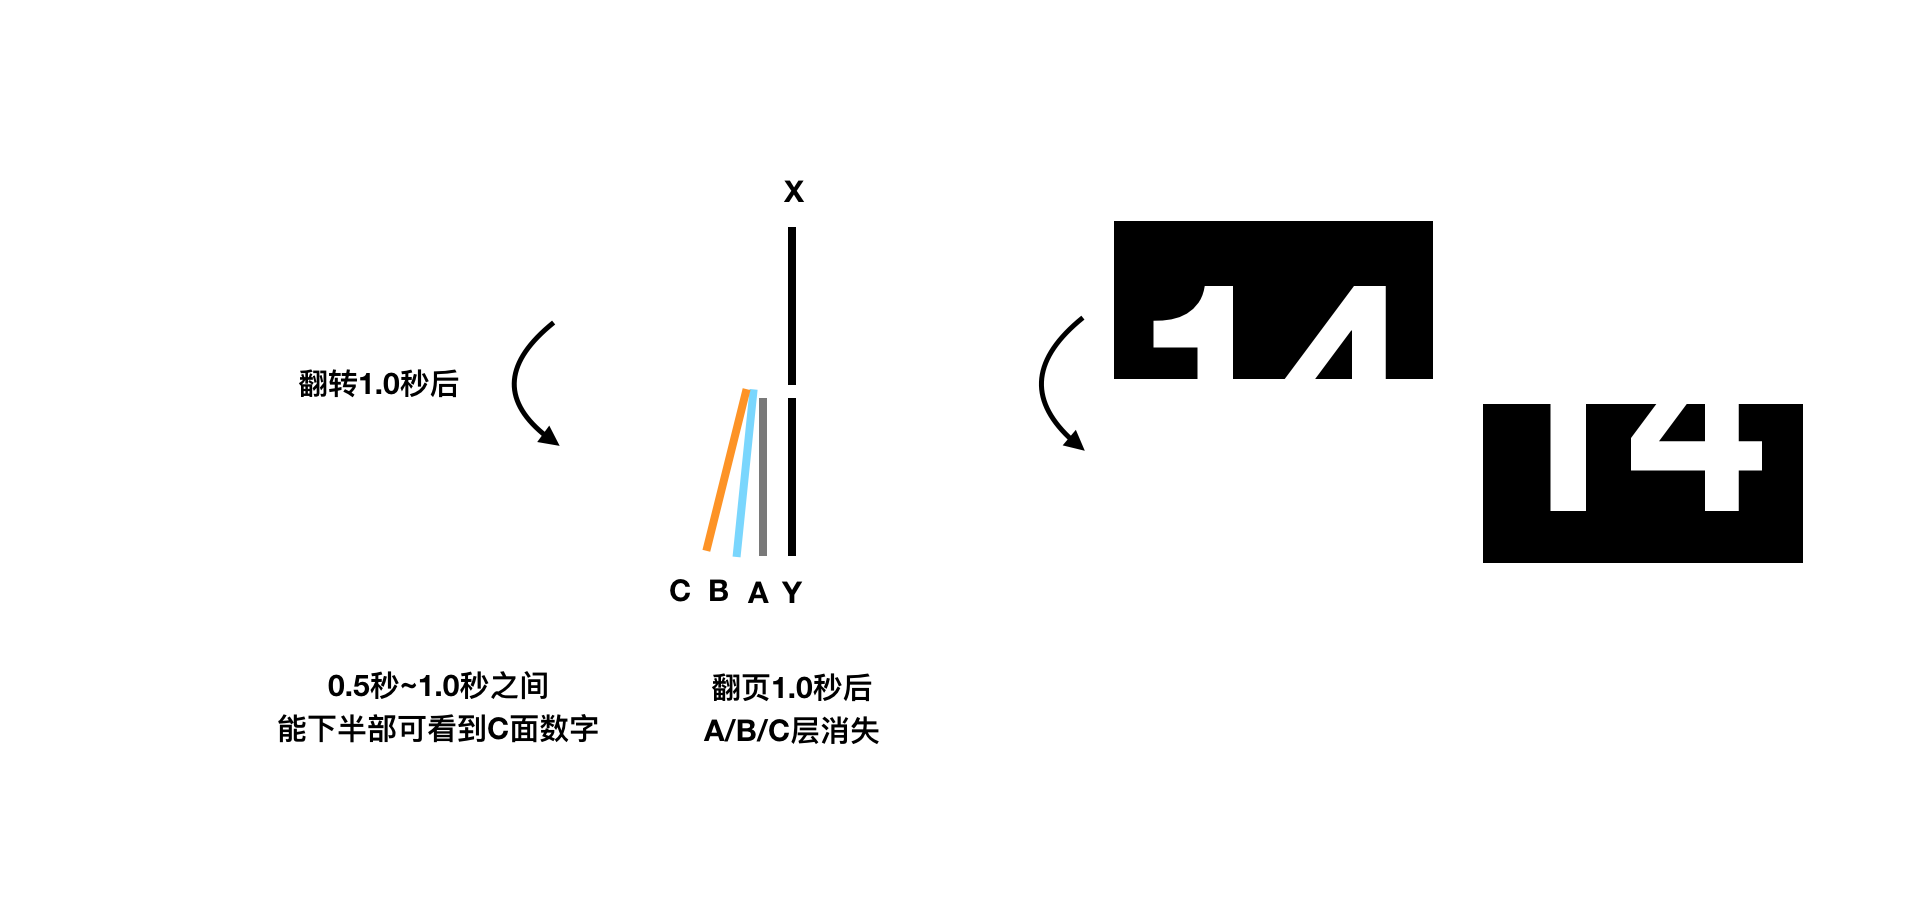
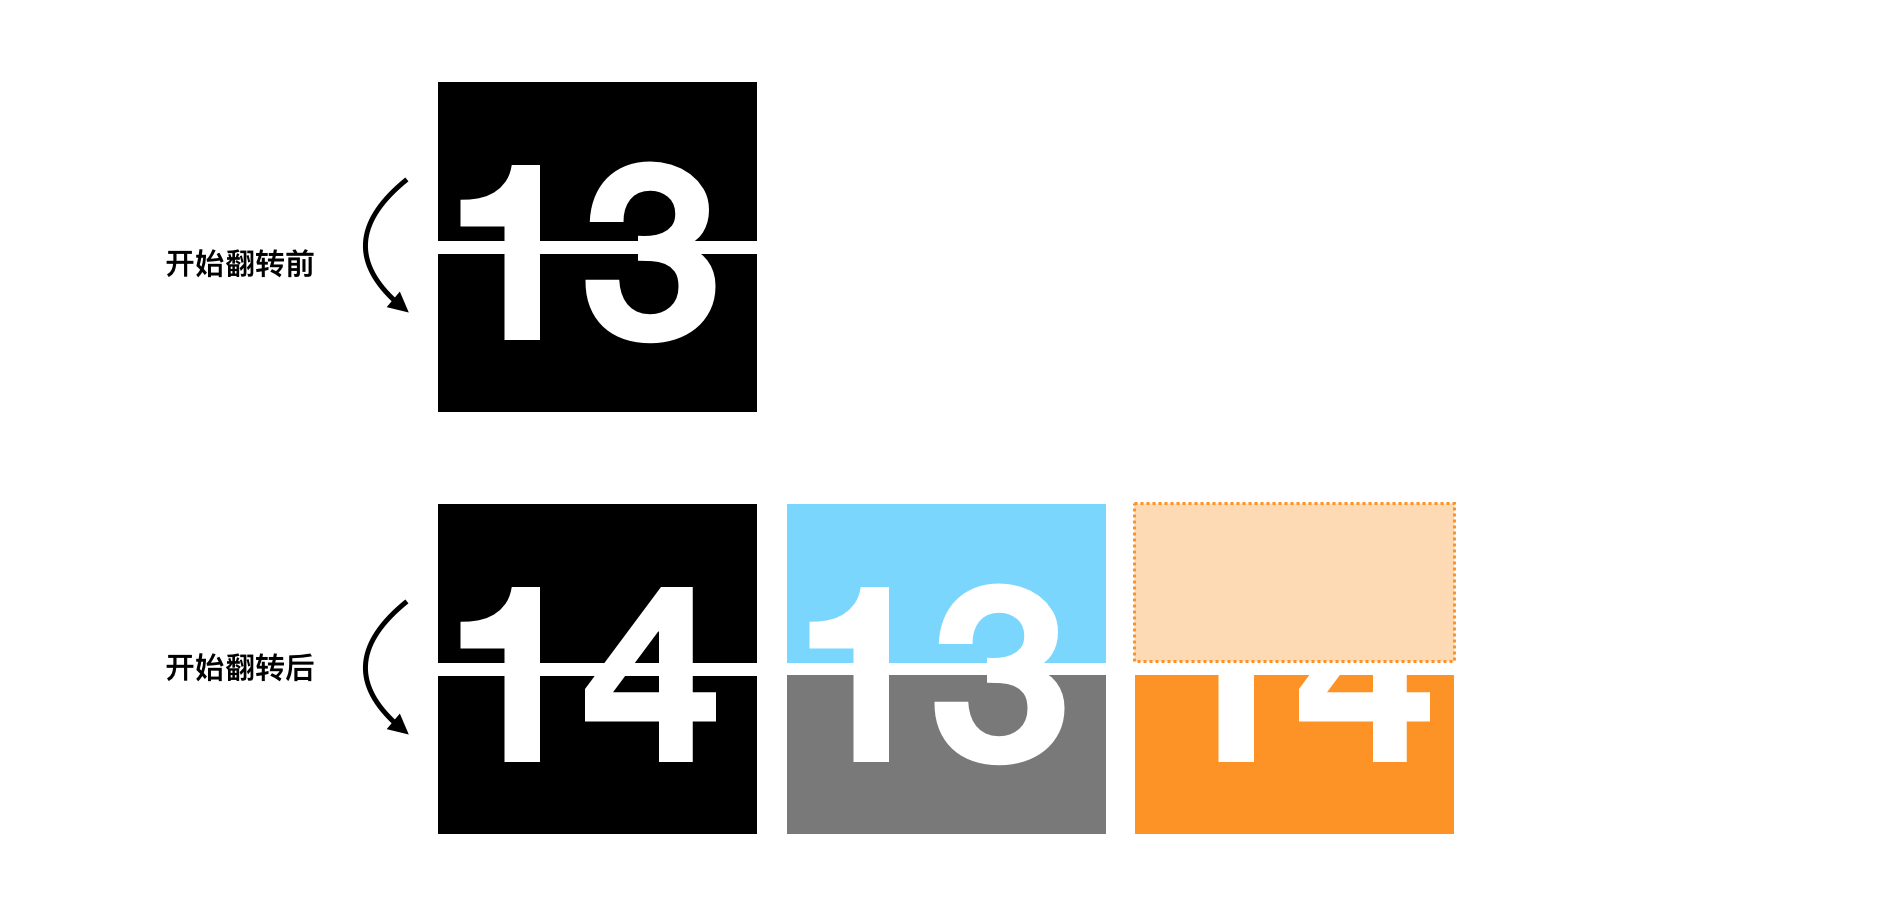
212

Changed region(s): [[0.0933, 0.0624, 0.9636, 0.9354], [0.5285, 0.2183, 0.7771, 0.4989]]

diff --git a/1.OneClock的翻页时钟效果是如何实现的？.md b/1.OneClock的翻页时钟效果是如何实现的？.md
@@ -1,0 +1,144 @@
+OneClock目前的三个表盘中用户最喜欢的是翻页时钟。翻页效果是表盘的核心，也是我花时间调试最久的细节。经过7次的产品迭代，终于调整到了一个合适的效果。
+
+
+![image](https://bjdehang.github.io/OneSwift/img/01/weibopeitu.png)
+
+
+实现这个动效的方法只需用到 `CABasicAnimation`中的以X轴旋转即可。`CABasicAnimation`实际上还有很多参数，比如大小、透明度、背景颜色等，用这个方法做很多动画都是可以实现的。
+
+
+制作翻页时钟的效果，实际上需要解决3个问题：
+
+**1.只要时间刻度变动就提前翻页；**
+
+**2.真实演示出翻页过程的遮盖和层级效果；**
+
+**3.正确显示数字；**
+
+
+#### 实现过程
+
+将翻页的过程通过侧面角度，解析成下图中所示的样子。翻页的效果是从“上半页”翻转到“下半页”，为了让过程显得舒缓，我将翻页的过程设定为1.0秒。翻页过程耗时1.0秒，因此在真实时间到达某一秒钟时，需要判断下一秒是否需要翻页，如果翻页，就立刻执行翻页的过程。
+
+![image](https://bjdehang.github.io/OneSwift/img/01/OneClock翻页01.png)
+
+翻页过程不需要改变最底层的X层和Y层，它们继续静态显示即可。以8点13分59秒为例，当判断下一秒为8点14分时，将立刻生成A层、B层、C层，分别在下图示意的位置。
+
+![image](https://bjdehang.github.io/OneSwift/img/01/OneClock翻页02.png)
+
+
+A层、B层所显示的数字为当前的13，C层所显示的数字为下一秒的时间14，当然因为方向的问题C层翻转之后实际上是“下半层”。
+
+![image](https://bjdehang.github.io/OneSwift/img/01/OneClock翻页03.png)
+
+
+一旦开始旋转，A层、B层、C层覆盖X层和Y层，此时的X层和Y层可以提前赋予他们下一秒的时间14。
+
+![image](https://bjdehang.github.io/OneSwift/img/01/OneClock翻页04.png)
+
+随着不断翻转，0.5秒后，上半层露出下一个时间14，下半层仍然显示的是当前时间13。
+
+![image](https://bjdehang.github.io/OneSwift/img/01/OneClock翻页05.png)
+
+0.5秒到1.0秒之间，C层会逐步在下半部显示，能够清晰地看到下一个数字为14。翻页1.0秒之后，时间刚好到达此刻的时间8点14分，A层、B层、C层的使命完成，立刻消失隐藏。X层和Y层提前1秒显示了正确的时间，翻页1.0秒后的时间刚好是我们所见到的正确时间8点14分。
+
+如此，翻页过程结束。
+
+![image](https://bjdehang.github.io/OneSwift/img/01/OneClock翻页06.png)
+
+
+小时的翻页和分钟的翻页实际上是一样的，只是小时翻页的过程伴随着分钟同时翻页，例如8点59分59秒的下一秒是9点00分，因此两个翻页将同时进行，而基本原理是一样的。
+
+
+
+#### 相关代码
+
+在我的代码实现中，「翻页时钟」和「检测时间」两个函数是分开独立的，因此时钟、分钟甚至秒钟都可以单独执行翻页。
+
+最后，分享出OneClock的下载链接和翻页函数的具体Swift代码：
+
+OneClock下载：https://itunes.apple.com/cn/app/id1257395357
+
+翻页函数：
+
+```
+func rotation(A:UIView,B:UIView,C:UIView){
+
+    A.alpha = 1
+
+    B.alpha = 1
+
+    C.alpha = 1
+
+    rotationFirst(view: B)
+
+    //本文中提到的B，显示13
+
+    rotationSecond(view: C)
+
+    //本文中提到的C，显示14
+
+    self.perform(#selector(self.initializeABC),with: nil, afterDelay: 0.9)
+
+    //最后为了过度顺利，提前0.1秒让A/B/C小时
+
+    //initializeABC函数设置A/B/C隐藏
+
+}
+```
+
+```
+func rotationFirst(view:UIView){
+
+    //旧值标签，先出来
+
+    let animation = CABasicAnimation(keyPath: "transform.rotation.x")
+
+    animation.fromValue = (-10/360)*Double.pi
+
+    animation.toValue = (-355/360)*Double.pi
+
+    animation.duration = 1.0
+
+    animation.repeatCount = 0
+
+    animation.delegate = selfas? CAAnimationDelegate
+
+    view.layer.add(animation, forKey: "rotationSecond")
+
+    view.alpha = 1
+
+}
+```
+
+
+
+```
+func rotationSecond(view:UIView) {
+
+    //新值标签，后
+
+    let animation = CABasicAnimation(keyPath: "transform.rotation.x")
+
+    animation.fromValue = (355/360) * Double.pi
+
+    animation.toValue = (10/360) * Double.pi
+
+    animation.duration = 1.0
+
+    animation.repeatCount = 0
+
+    animation.delegate = self as? CAAnimationDelegate
+
+    view.layer.add(animation, forKey: "rotationFirst")
+
+    view.alpha = 1
+
+}
+
+```
+
+
+GitHub：[OneSwift - iOS Tips Based On Swift](https://bjdehang.github.io/OneSwift)
+
+微博：[xDEHANG](http://weibo.com/bujidehang/)

diff --git a/index.md b/index.md
@@ -1,14 +1,34 @@
-## 欢迎访问OneSwift
+### 欢迎访问OneSwift
 
 这里将长期分享Swift的一些小技巧和案例。
 
 
 
-## 目前已经有的内容
+### 目前已经有的内容
 
-###  [如何给Tableview、Collectionview添加动效](/如何给Tableview、Collectionview添加动效.md).
+####  [1.OneClock的翻页时钟效果是如何实现的？](/1.OneClock的翻页时钟效果是如何实现的？.md)
+
+####  [2.OneDay的Widget小组件如何自适应高度？](/2.OneDay的Widget小组件如何自适应高度？.md)
+
+####  [3.OneDay的10种主题是如何实现的？](/3.OneDay的10种主题是如何实现的？.md)
+
+####  [4.如何给Tableview、Collectionview添加动效？](/4.如何给Tableview、Collectionview添加动效.md)
 
 
-## 关于OneX
+### 关于OneX
+> OneX系列产品，注重简洁、实用、美观
 
-## 关于我
+#### [OneDay - 计算日子的勿忘清单](https://itunes.apple.com/cn/app/id1250290965)
+#### [OneClock - 可不息屏的极简翻页时钟](https://itunes.apple.com/cn/app/id1257395357)
+#### [OneRead - 畅快的Readhub阅读器](https://jinshuju.net/f/syQKg5)
+
+#### OneScreen、OneCall...开发中
+
+
+### 关于我
+
+- 2017年3月24日，我开始零基础学习iOS开发；
+- 2017年7月04日，OneDay上架，工具付费榜36、付费总榜456；
+- 2017年7月24日，OneClock上架，工具付费榜14、付费总榜263；
+- 2017年9月27日，被指标题后缀侵权，苹果将OneDay下架；
+- 2017年12月13日，经过多次与苹果邮件往来，OneDay恢复上架；

diff --git a/4.如何给Tableview、Collectionview添加动效.md b/4.如何给Tableview、Collectionview添加动效.md
@@ -1,5 +1,6 @@
 ## 如何给Tableview、Collectionview添加动效
-> OneSwift - iOS Tips Based On Swift
+> [OneSwift - iOS Tips Based On Swift](https://bjdehang.github.io/OneSwift)
+
 `TableView`和`CollectionView`在开发产品中使用非常频繁，不管是独立使用还是组合使用，掌握它们都是所有iOS开发者必备的技能。
 
 
@@ -196,6 +197,6 @@ func collectionView(_ collectionView: UICollectionView, didUnhighlightItemAt ind
 
 
 
-Github：[OneSwift - iOS Tips Based On Swift](https://bjdehang.github.io/OneSwift)
+GitHub：[OneSwift - iOS Tips Based On Swift](https://bjdehang.github.io/OneSwift)
 
 微博：[xDEHANG](http://weibo.com/bujidehang/)
